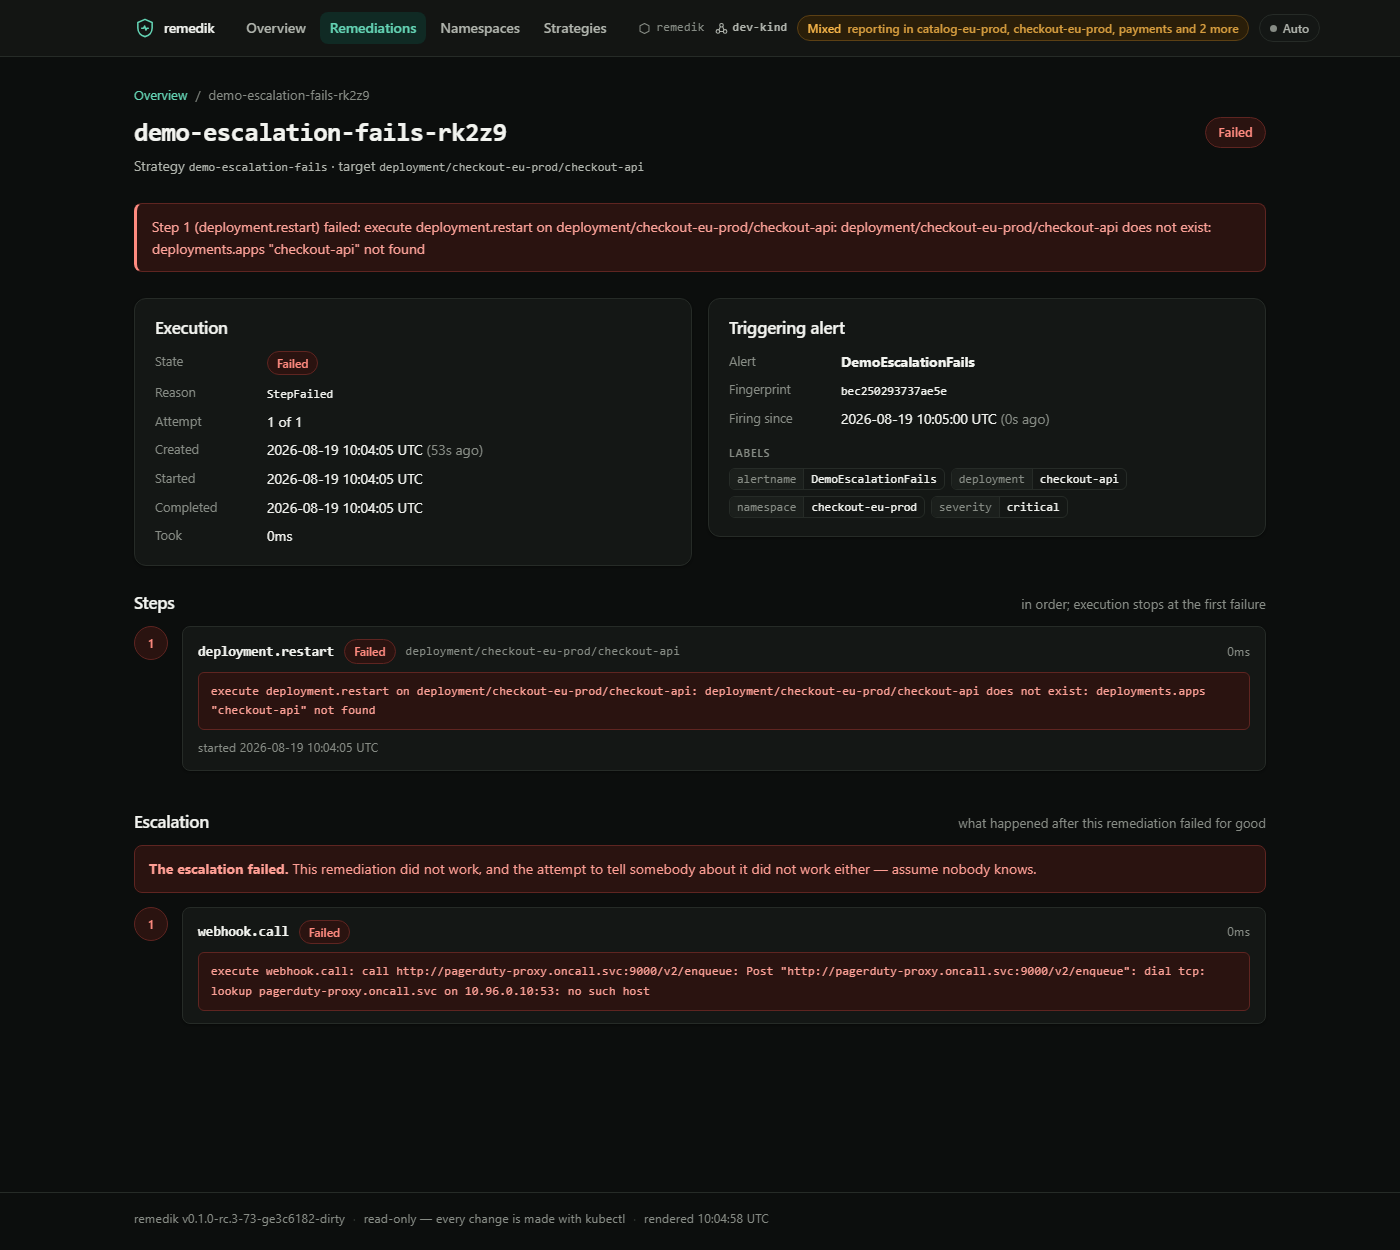
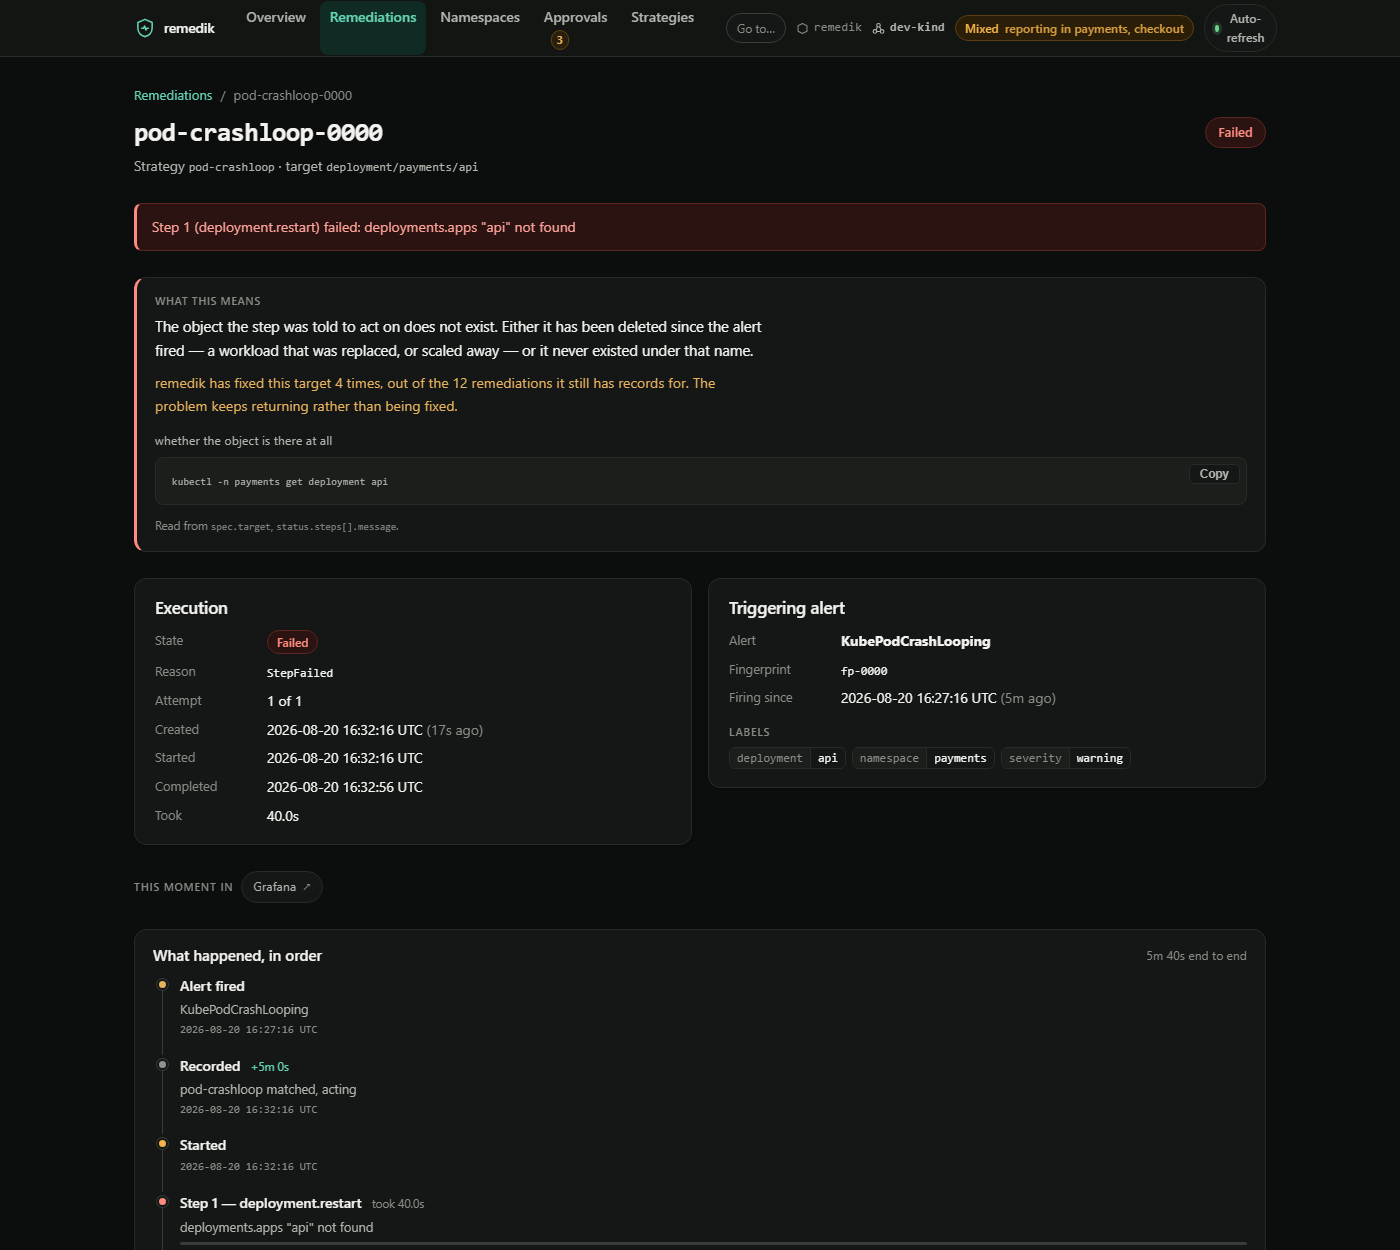
chore: ready the repository to be public
The landing page still asked for sponsorship, and its "read the funding page"
button pointed at a file deleted two commits ago. Nothing said so, because
nothing checked: `make verify` now resolves every link in this repository that
points into this repository -- Markdown between documents, and the blob links
the website uses to reach files here. External URLs are deliberately not
checked, because a gate that depends on somebody else's uptime is a gate people
learn to skip.

That section is now about the licence, which is what it was always really
saying: nothing held back for a paid tier, no telemetry, no licence key, and
that hearing it runs in production is worth more than money was ever going to
be.

The site's screenshots were three weeks old, from before the dashboard grew an
explanation, a timeline and a queue. They are current, and there is a fourth:
the approvals queue, which is the part of this product that most needs a
picture -- some remediations should wait for a person, that queue is ordered by
which expires first, and the page still cannot write.

A pre-publication sweep found nothing else to fix. No secret-shaped string in
the tree or anywhere in 1,499 objects of history, no personal path or machine
name, one author, no TODOs. .claude/, hack/github-setup.sh and .github/rulesets
are gitignored deliberately and stay that way.

diff --git a/website/index.html b/website/index.html
@@ -203,7 +203,7 @@ footer a:hover { color: var(--green); }
       <a href="#why">Why</a>
       <a href="#how">How</a>
       <a href="#see">See it</a>
-      <a href="#support">Support</a>
+      <a href="#licence">Licence</a>
       <a class="btn" href="https://github.com/remedik/remedik">GitHub</a>
     </nav>
   </div>
@@ -385,47 +385,53 @@ footer a:hover { color: var(--green); }
     <figure>
       <img src="assets/detail.png" alt="A failed remediation, showing the step that failed and an escalation that also failed">
       <figcaption>And every execution has a page that explains itself —
-      including the case that matters most, where the remediation failed and
-      the attempt to report it failed too.</figcaption>
+      the error, what that error actually means, what happened in order, and
+      whether anybody was told.</figcaption>
+    </figure>
+
+    <figure>
+      <img src="assets/approvals.png" alt="The approvals queue: what is waiting, the time left on each, what approving it would run, and the commands that decide it">
+      <figcaption>Some remediations should wait for a person. That queue is
+      ordered by which expires first — it is the only state with a clock on
+      it — and shows what approving one would actually run. The page still
+      cannot write: it prints the command.</figcaption>
     </figure>
   </div>
 </section>
 
-<section id="support">
+<section id="licence">
   <div class="wrap">
     <div class="section-head">
-      <h2>Supporting this</h2>
-      <p>remedik is Apache-2.0 and stays that way. Nothing is held back for a
-      paid tier, there is no telemetry, and no feature is behind a licence key.
-      If you never pay anything, you get the same software.</p>
+      <h2>What it costs</h2>
+      <p>Nothing, and there is nothing to buy. remedik is Apache-2.0 and stays
+      that way: nothing is held back for a paid tier, there is no telemetry,
+      and no feature is behind a licence key.</p>
     </div>
 
     <div class="cards">
-      <div class="card">
-        <h3>What sponsorship pays for</h3>
-        <p>Cluster time for the end-to-end suite — the test that has caught
-        every defect the unit tests could not. Coverage across Kubernetes
-        versions. An external security review of the code that holds write
-        access to your cluster.</p>
-      </div>
-      <div class="card">
-        <h3>What it does not buy</h3>
-        <p>Priority support, a private fork, or a feature because somebody paid
-        for it. If a change is right for the project it lands either way.
-        Sponsorship buys the project’s continued existence, not a queue
-        position.</p>
-      </div>
       <div class="card">
         <h3>Worth more than money</h3>
         <p>Tell us it runs in production. One line — “we run this on N
         clusters” — is what makes the next person’s security review shorter.
         Report the near-misses. Contribute a strategy to the cookbook.</p>
       </div>
+      <div class="card">
+        <h3>Read it before you trust it</h3>
+        <p>It asks for write access to your cluster, so the promises it makes
+        are written down as invariants, and the reasoning behind each is in the
+        repository beside the code that keeps it.</p>
+      </div>
+      <div class="card">
+        <h3>Try it on something disposable</h3>
+        <p>One command builds a throwaway cluster, a real Prometheus, a
+        workload that really breaks, and remedik recording what it would do
+        about it. Nothing is simulated and nothing of yours is touched.</p>
+      </div>
     </div>
 
     <p class="cta-row">
       <a class="btn btn-primary" href="https://github.com/remedik/remedik">Star it on GitHub</a>
-      <a class="btn" href="https://github.com/remedik/remedik/blob/main/docs/funding.md">Read the funding page</a>
+      <a class="btn" href="https://github.com/remedik/remedik/blob/main/docs/invariants.md">Read the invariants</a>
     </p>
   </div>
 </section>

diff --git a/CHANGELOG.md b/CHANGELOG.md
@@ -145,8 +145,8 @@ and this project adheres to [Semantic Versioning](https://semver.org/).
 ### Removed
 
 - **Everything about being paid.** `docs/funding.md`, the "Supporting this
-  project" section and the (entirely commented-out) `.github/FUNDING.yml` are
-  gone. There is no way to take the money that works for the person behind
+  project" section, the sponsorship section of the landing page and the
+  (entirely commented-out) `.github/FUNDING.yml` are gone. There is no way to take the money that works for the person behind
   this yet, and a project asking to be trusted with cluster write access
   should not carry an ask it cannot honour.
 
@@ -157,6 +157,13 @@ and this project adheres to [Semantic Versioning](https://semver.org/).
   person's security review shorter.
 
 ### Fixed
+
+- **A link on the landing page pointed at a page that had been deleted.**
+  Nothing said so, because nothing checked. `make verify` now resolves every
+  link in this repository that points into this repository — Markdown between
+  documents, and the blob links the website uses to reach files here. External
+  URLs are deliberately not checked: a gate that depends on somebody else's
+  uptime is a gate people learn to skip.
 
 - **A chart value could put an extra flag on the operator's command line.**
   Every argument the deployment builds from `values.yaml` was rendered
